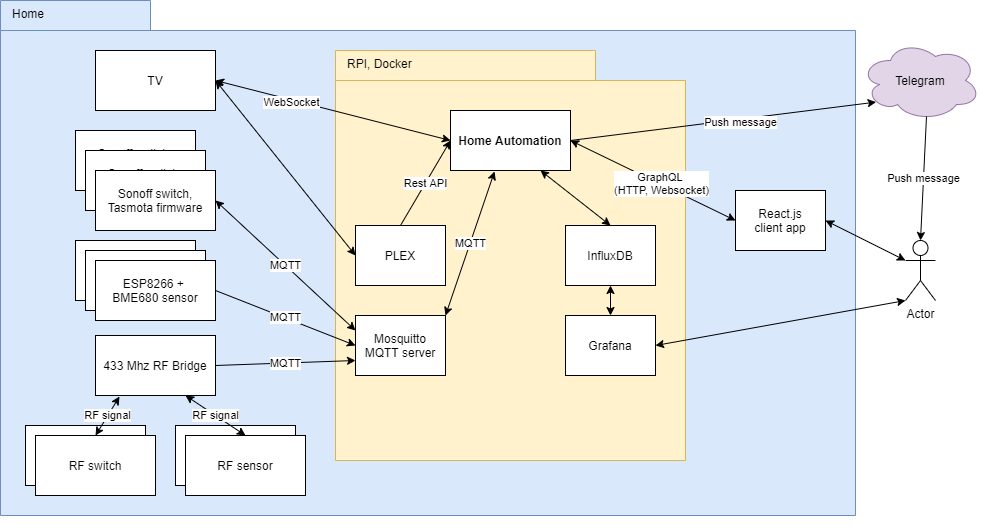
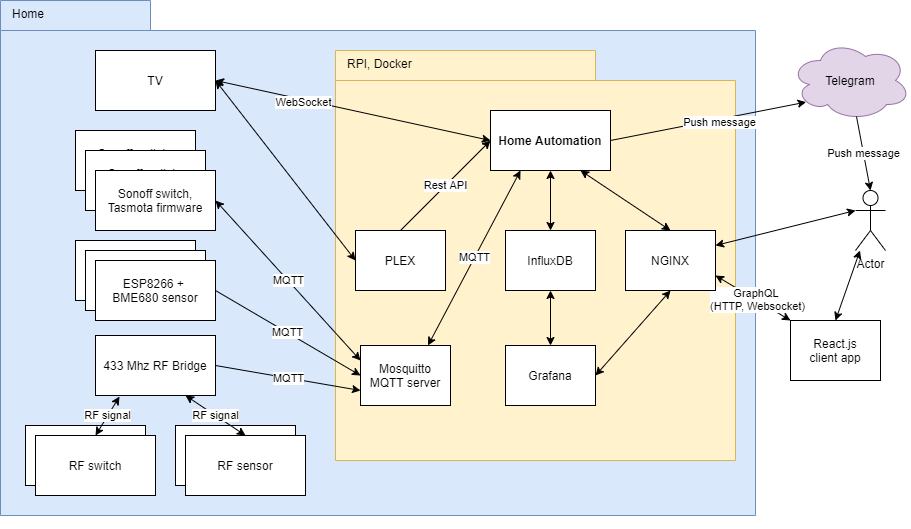
- NGINX proxy használata - Beállítások

diff --git a/backend/src/main/kotlin/hu/dlaszlo/vsha/backend/sunsetsunrise/SunsetSunriseService.kt b/backend/src/main/kotlin/hu/dlaszlo/vsha/backend/sunsetsunrise/SunsetSunriseService.kt
@@ -9,16 +9,16 @@ import kotlin.math.*
 @Component
 class SunsetSunriseService {
 
-    @Value("\${longitude}")
+    @Value("\${sunsetsunrise.longitude}")
     var longitude: Double = 0.0
 
-    @Value("\${latitude}")
+    @Value("\${sunsetsunrise.latitude}")
     var latitude: Double = 0.0
 
-    @Value("\${timeZone}")
+    @Value("\${sunsetsunrise.timeZone}")
     lateinit var timeZone: String
 
-    @Value("\${zenith}")
+    @Value("\${sunsetsunrise.zenith}")
     lateinit var zenith: Zenith
 
     private fun adjust(d: Double, min: Double, max: Double): Double {

diff --git a/backend/src/main/kotlin/hu/dlaszlo/vsha/backend/telegram/TelegramService.kt b/backend/src/main/kotlin/hu/dlaszlo/vsha/backend/telegram/TelegramService.kt
@@ -10,10 +10,10 @@ import javax.annotation.PostConstruct
 @Service
 class TelegramService {
 
-    @Value("\${telegram.bot_token}")
+    @Value("\${telegram.botToken}")
     private lateinit var botToken: String
 
-    @Value("\${telegram.chat_id}")
+    @Value("\${telegram.chatId}")
     private var chatId: Long = 0
 
     var bot: TelegramBot? = null

diff --git a/backend/src/main/kotlin/hu/dlaszlo/vsha/backend/device/BeeperService.kt b/backend/src/main/kotlin/hu/dlaszlo/vsha/backend/device/BeeperService.kt
@@ -14,7 +14,7 @@ class BeeperService {
     @Value("\${beeper.enabled}")
     private var beeperEnabled: Boolean = false
 
-    @Value("\${beeper.pin.number}")
+    @Value("\${beeper.pinNumber}")
     private var beeperPinNumber: String = "21"
 
     fun beep(vararg delaysInMillis: Long) {

diff --git a/README.md b/README.md
@@ -21,8 +21,8 @@ A beeper Raspberry PI-n, Raspbian operációs rendszer alatt lett tesztelve, de 
 
 A beeper használatához az operációs rendszerben engedélyezni kell a GPIO portokat.
 
-A beeper bekapcsolásához az ```application.properties```-ben a ```beeper.enabled``` property-t ```false```-ról 
-```true```-ra kell állítani. A PIN a ```beeper.pin.number``` property-vel adható meg. 
+A beeper bekapcsolásához az ```application.yml```-ben a ```beeper.enabled``` property-t ```false```-ról 
+```true```-ra kell állítani. A PIN a ```beeper.pinNumber``` property-vel adható meg. 
 
 Példa a beeper használatása: 
 - Ajtónyitás jelzése
@@ -46,13 +46,13 @@ Beállítások elvégzése az üzenetküldéshez:
 
 1. A telegram-on kell létrehozni egy bot-ot, ezt a BotFather bot-tól kell kérni.
 2. Bot létrehozáskor a BotFather a bot nevét, és a userId-jét fogja megkérdezni.
-3. A HTTP API-hoz kapott tokent az ```application.properties```-ben kell beállítani a ```telegram.bot_token``` beállításban.
+3. A HTTP API-hoz kapott tokent az ```application.yml```-ben kell beállítani a ```telegram.botToken``` beállításban.
 4. Létre kell hozni egy private channelt, és meg kell hívni bele a bot-ot admin-ként, és a felhasználókat.
 5. A channel-t meg kell nyitni egy webböngészőben, és az channel_id-t az URL-ből kell kinyerni:
     1. Pl. ez az URL: https://web.telegram.org/#/im?p=c1234567890_1234567890123456789
     2. Ekkor a channel ID a c és a _ jel közötti rész, de elé kell írni, hogy -100, tehát ez lesz: -1001234567890 
     3. Tehát a channel ID egy - jel, és 13 db szám.
-    4. A kapott channel ID-t az ```application.properties```-ben kell beállítani, a ```telegram.chat_id``` beállításban.
+    4. A kapott channel ID-t az ```application.yml```-ben kell beállítani, a ```telegram.chatId``` beállításban.
 
 Példa az üzenetküldésre:
 
